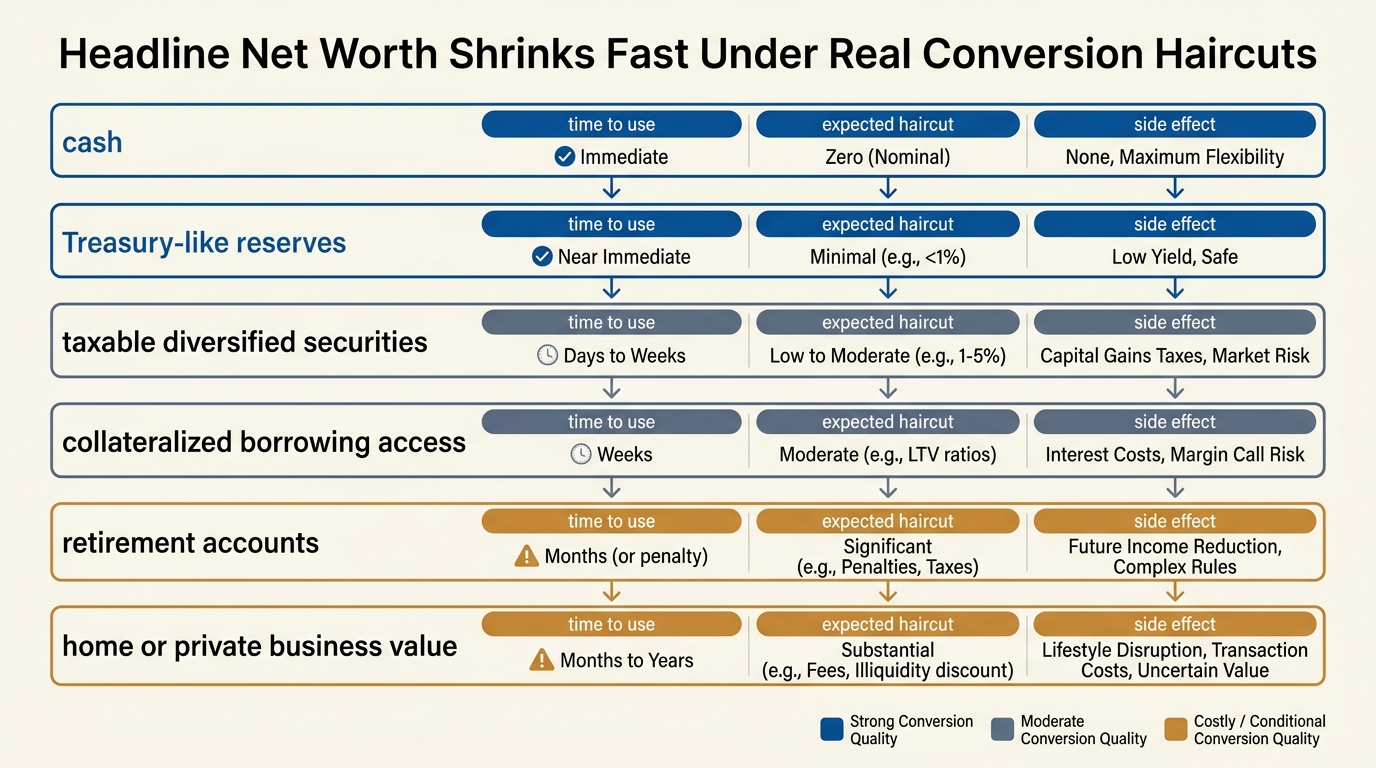
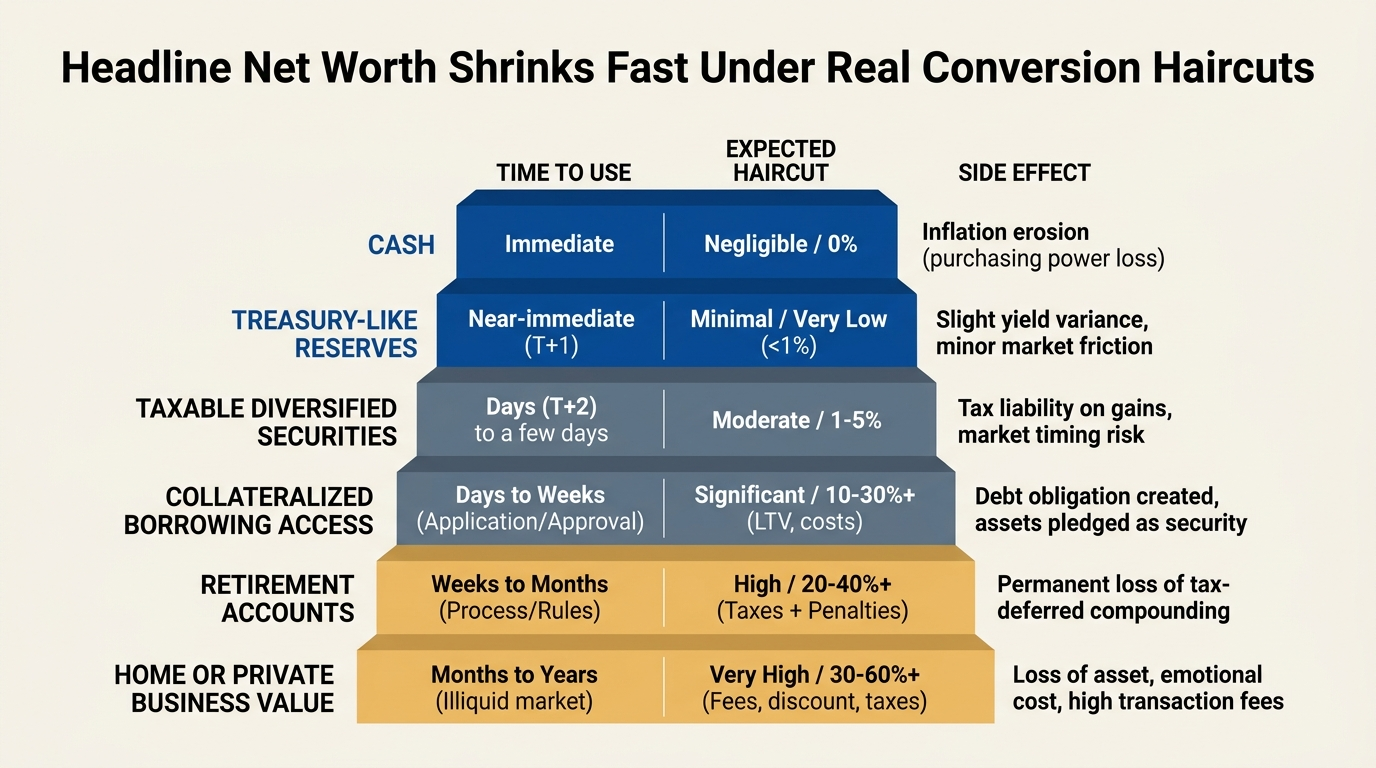
Refresh topic 1 liquidity illusion longform

diff --git a/liquidity-illusion.html b/liquidity-illusion.html
@@ -23,7 +23,7 @@
       "headline":"The Liquidity Illusion",
       "description":"Why household net worth, borrowing access, and practical cash resilience diverge once real conversion haircuts, deadlines, and refinancing dependence are measured directly.",
       "datePublished":"2026-04-14",
-      "dateModified":"2026-04-17",
+      "dateModified":"2026-04-18",
       "author":{"@type":"Organization","name":"WEALTHMETER.XYZ"},
       "publisher":{"@type":"Organization","name":"WEALTHMETER.XYZ","url":"https://wealthmeter.xyz"},
       "mainEntityOfPage":"https://wealthmeter.xyz/liquidity-illusion.html",
@@ -60,7 +60,7 @@
     <span class="badge">Longform · Structural Wealth Traps</span>
     <h1>The Liquidity Illusion</h1>
     <p class="lead">The most flattering number in personal finance is net worth because it collapses unlike things into one line. It lets cash, home equity, retirement balances, concentrated stock, and business value masquerade as one interchangeable reserve. They are not interchangeable. Under time pressure, each asset class clears into spendable flexibility at a different speed, with a different haircut, and often with a different second-order cost. The operational mistake is to price the balance sheet by quoted value when the real problem is deadline risk.</p>
-    <div class="meta">Updated April 17, 2026 · Originally published April 14, 2026 · ~15 min read</div>
+    <div class="meta">Updated April 18, 2026 · Originally published April 14, 2026 · ~15 min read</div>
 
     <p>The mistake is not that households ignore liquidity altogether. Most people understand that cash is useful. The deeper mistake is to treat visible balance-sheet value as though it were already usable defense. A seven-figure household can still be operationally fragile if the next six months depend on selling risk assets into a drawdown, borrowing against an asset at a punitive rate, or tapping retirement capital in a way that damages the future plan.</p>
 
@@ -108,6 +108,11 @@
 
     <p>That logic links this topic to several adjacent WealthMeter themes. The career optionality gap is often a disguised liquidity problem. The asset-rich, cash-poor paradox is a direct manifestation of the same structure. The hidden costs of ownership matter partly because they convert supposedly stable assets into recurring cash demands. Liquidity is therefore not a narrow treasury-management issue. It is the hidden architecture behind bargaining power.</p>
 
+    <h2>The Stress Test Must Treat Market Loss And Credit Tightening As One Event</h2>
+    <p>Households often model shocks sequentially. First they imagine an income interruption. Later they imagine a market drawdown. After that they imagine refinancing risk. Real stress is less polite. Labor shocks, weaker asset prices, and tighter credit often arrive in the same window because they are partially driven by the same macro conditions. The practical consequence is that the balance-sheet layer people planned to tap can deteriorate precisely when the need to tap it becomes urgent.</p>
+
+    <p>This is why a securities-backed line or home-equity facility should not be read as a fixed liquidity reserve. The capacity may remain available, but the economic quality of that capacity changes once collateral values fall, rates are higher, or lenders become more conservative. A household that depends on those channels during a joint shock is not drawing on stored resilience. It is paying the crisis price for time.</p>
+
     <h2>A Better Household Liquidity Audit Uses Haircuts, Not Labels</h2>
     <ul>
         <li><b>Separate owned reserves from conditional access.</b> Cash, Treasury-like holdings, and immediately saleable low-volatility assets should sit in a different bucket from lines of credit and pledged collateral.</li>
@@ -132,7 +137,7 @@
     <h2>The Practical Correction</h2>
     <p>The correction is not to hold everything in cash. That would sacrifice long-run compounding and usually make the household poorer in real terms. The correction is to stop asking one asset layer to do another layer's job. Cash exists to absorb immediacy. Diversified taxable capital exists to extend flexibility. Retirement assets exist to secure distant solvency. Housing and private business value create strategic wealth, not routine shock defense. When these layers are kept conceptually separate, the liquidity illusion loses much of its force.</p>
 
-    <p>The better question is therefore not, "How large is the balance sheet?" It is, "Which part of this balance sheet can buy time without forcing a second loss?" That answer governs resilience far more accurately than the dashboard total ever will.</p>
+    <p>The better question is therefore not, "How large is the balance sheet?" It is, "Which part of this balance sheet can buy time when markets, lenders, and employers all become less forgiving at the same time?" That answer governs resilience far more accurately than the dashboard total ever will.</p>
 
     <h2>Further Reading Inside The Site</h2>
     <p>This article connects directly to <a href="asset-rich-cash-poor-paradox.html">The Asset-Rich, Cash-Poor Paradox</a>, <a href="career-optionality-gap.html">The Career Optionality Gap</a>, and <a href="hidden-costs-of-ownership.html">The Hidden Costs of Ownership</a>. Together they show how weak liquidity design narrows freedom long before a household looks poor on paper.</p>

diff --git a/longform.html b/longform.html
@@ -65,9 +65,9 @@
     <a class="card" href="liquidity-illusion.html">
         <img src="images/longform/liquidity-conversion-haircut-ladder-2026.png" alt="Editorial ladder ranking major household asset layers by time to use, expected haircut, and side effect." loading="lazy">
         <div class="content">
-            <div class="meta">Apr 17, 2026 | 15 min read</div>
+            <div class="meta">Apr 18, 2026 | 15 min read</div>
             <h2>The Liquidity Illusion</h2>
-            <p>Why the relevant balance-sheet number is value after deadline, haircut, and side effect rather than the dashboard total.</p>
+            <p>Why household resilience depends on value after deadline, haircut, and credit tightening rather than on the dashboard total.</p>
         </div>
     </a>
 
